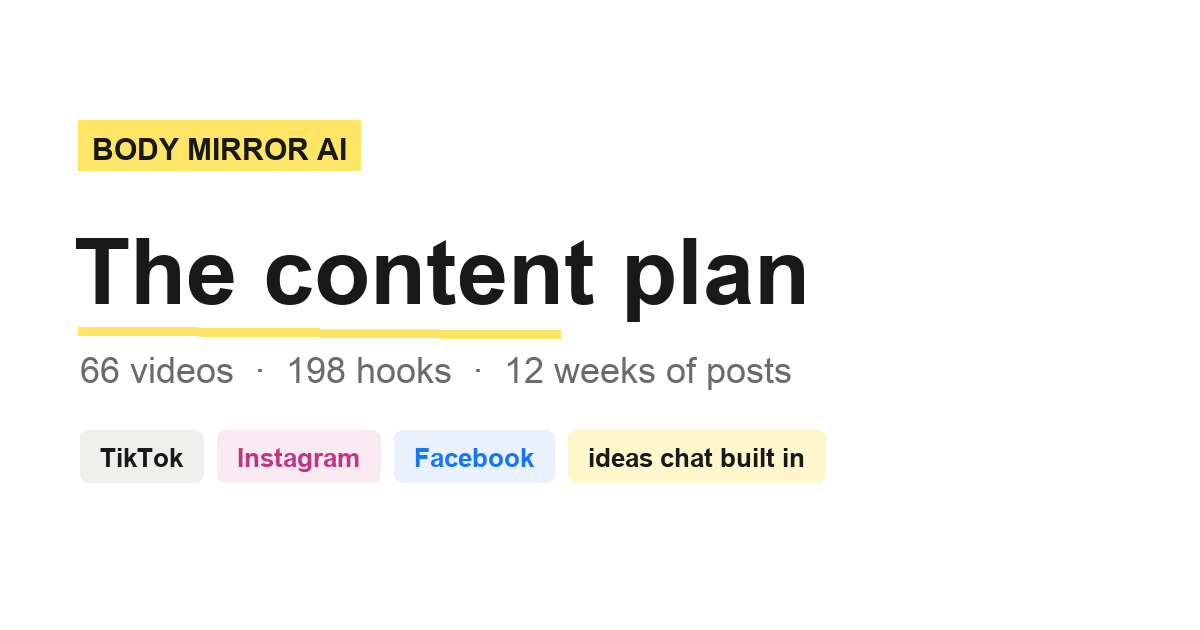
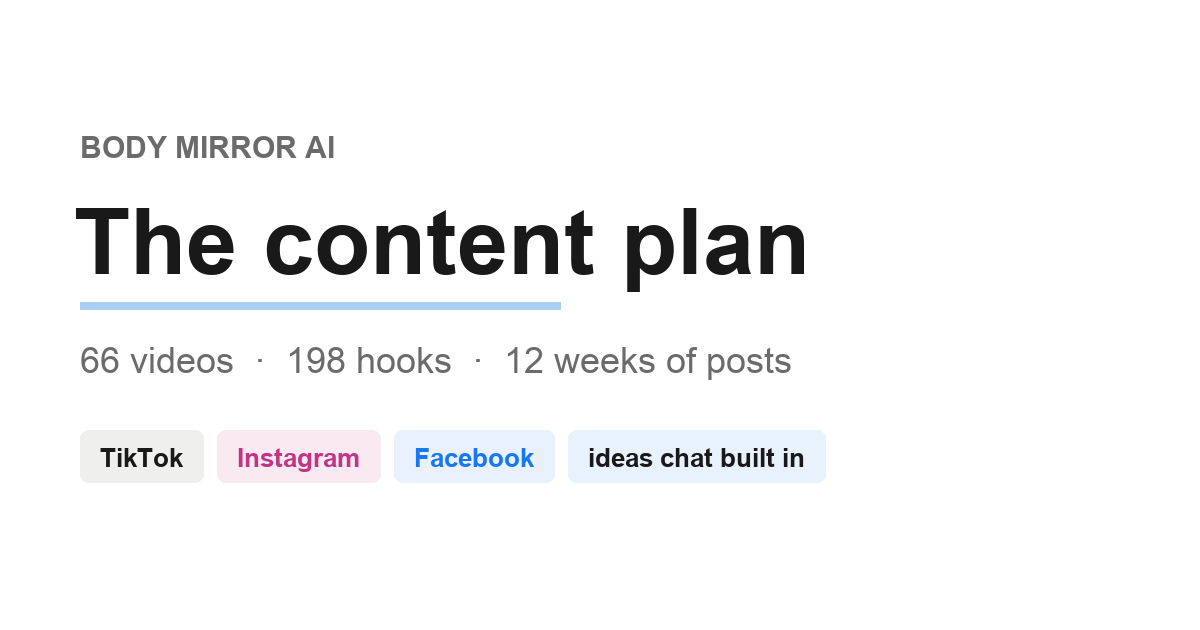
v4.1: swap yellow for sparing soft blue accent

diff --git a/index.html b/index.html
@@ -18,7 +18,7 @@
 <style>
   :root{
     --bg:#FFFFFF; --surface:#FFFFFF; --soft:#F7F7F5; --ink:#191919; --muted:#6B6B6B; --line:#E3E3E0;
-    --hl:#FFE566; --hl-soft:#FFF7CC;
+    --hl:#A9CFF5; --hl-soft:#E8F2FC;
     --tt:#191919; --tt-bg:#EFEFED; --ig:#C13584; --ig-bg:#F9EAF2; --fb:#1877F2; --fb-bg:#E9F1FD;
     --good:#25823F; --good-bg:#EAF4EC; --warn:#9A6A00; --warn-bg:#FBF2D7;
     --r:8px;
@@ -27,20 +27,20 @@
   @media (prefers-color-scheme: dark){
     :root{
       --bg:#151515; --surface:#1C1C1C; --soft:#202020; --ink:#EBEBEB; --muted:#9C9C9C; --line:#303030;
-      --hl:#F0D34C; --hl-soft:#3A3413;
+      --hl:#5E97D0; --hl-soft:#1E2F40;
       --tt:#EBEBEB; --tt-bg:#2A2A2A; --ig:#EE79B6; --ig-bg:#3A2230; --fb:#63A4F8; --fb-bg:#1E2E47;
       --good:#5FBF7A; --good-bg:#1B2E20; --warn:#DDB84E; --warn-bg:#332B10;
     }
   }
   :root[data-theme="light"]{
     --bg:#FFFFFF; --surface:#FFFFFF; --soft:#F7F7F5; --ink:#191919; --muted:#6B6B6B; --line:#E3E3E0;
-    --hl:#FFE566; --hl-soft:#FFF7CC;
+    --hl:#A9CFF5; --hl-soft:#E8F2FC;
     --tt:#191919; --tt-bg:#EFEFED; --ig:#C13584; --ig-bg:#F9EAF2; --fb:#1877F2; --fb-bg:#E9F1FD;
     --good:#25823F; --good-bg:#EAF4EC; --warn:#9A6A00; --warn-bg:#FBF2D7;
   }
   :root[data-theme="dark"]{
     --bg:#151515; --surface:#1C1C1C; --soft:#202020; --ink:#EBEBEB; --muted:#9C9C9C; --line:#303030;
-    --hl:#F0D34C; --hl-soft:#3A3413;
+    --hl:#5E97D0; --hl-soft:#1E2F40;
     --tt:#EBEBEB; --tt-bg:#2A2A2A; --ig:#EE79B6; --ig-bg:#3A2230; --fb:#63A4F8; --fb-bg:#1E2E47;
     --good:#5FBF7A; --good-bg:#1B2E20; --warn:#DDB84E; --warn-bg:#332B10;
   }
@@ -51,7 +51,7 @@
   h1,h2,h3{margin:0;text-wrap:balance}
 
   /* ------- header ------- */
-  .eyebrow{display:inline-block;font-size:12.5px;letter-spacing:.08em;text-transform:uppercase;font-weight:700;background:var(--hl);color:#191919;padding:3px 8px;margin-bottom:10px}
+  .eyebrow{display:inline-block;font-size:12.5px;letter-spacing:.08em;text-transform:uppercase;font-weight:700;color:var(--muted);margin-bottom:8px}
   h1{font-size:clamp(26px,6vw,34px);line-height:1.15;font-weight:800;letter-spacing:-.01em}
   .sub{color:var(--muted);margin:10px 0 0;max-width:58ch}
   .stats{display:flex;gap:14px;flex-wrap:wrap;margin:14px 0 0;font-size:13.5px;color:var(--muted)}
@@ -66,7 +66,7 @@
 
   .f5row{display:flex;flex-wrap:wrap;gap:7px;margin-top:10px}
   .f5btn{display:flex;align-items:center;gap:8px;border:1px solid var(--line);background:var(--surface);color:var(--ink);border-radius:6px;padding:6px 12px 6px 6px;font-size:13.5px;font-weight:600;cursor:pointer;font-family:var(--body)}
-  .f5btn i{font-style:normal;width:21px;height:21px;border-radius:4px;background:var(--hl);color:#191919;display:grid;place-items:center;font-size:12px;font-weight:800;flex:none}
+  .f5btn i{font-style:normal;width:21px;height:21px;border-radius:4px;background:var(--hl-soft);color:var(--ink);display:grid;place-items:center;font-size:12px;font-weight:800;flex:none}
   .f5btn:hover{border-color:var(--ink)}
 
   .pillars{display:grid;grid-template-columns:repeat(auto-fit,minmax(220px,1fr));gap:8px;margin:18px 0 0}
@@ -98,7 +98,7 @@
   .count-note{font-size:12.5px;color:var(--muted)}
   .count-note b{color:var(--ink);font-variant-numeric:tabular-nums}
   .dice{border:1px solid var(--ink);background:var(--surface);color:var(--ink);border-radius:6px;padding:6px 13px;font-size:13px;font-weight:700;cursor:pointer;font-family:var(--body);margin-left:auto}
-  .dice:hover{background:var(--hl);border-color:var(--hl);color:#191919}
+  .dice:hover{background:var(--ink);color:var(--bg)}
 
   /* ------- plan ------- */
   .month{margin-top:30px}
@@ -119,7 +119,7 @@
   .ptag.tt{background:var(--tt-bg);color:var(--tt)}
   .ptag.ig{background:var(--ig-bg);color:var(--ig)}
   .ptag.fb{background:var(--fb-bg);color:var(--fb)}
-  .ptag.all{background:var(--hl-soft);color:var(--ink)}
+  .ptag.all{background:var(--soft);color:var(--ink);border:1px solid var(--line)}
   .atag{font-size:11.5px;color:var(--muted);border:1px solid var(--line);border-radius:4px;padding:2px 7px}
   .etag{font-size:11px;font-weight:700;border-radius:4px;padding:2.5px 7px;margin-left:auto;white-space:nowrap}
   .etag.q{background:var(--good-bg);color:var(--good)}
@@ -146,7 +146,7 @@
   .copy-idea:hover{color:var(--ink);border-color:var(--ink)}
   .copy-idea.done{color:var(--good);border-color:var(--good)}
   [contenteditable]{border-radius:4px;padding:1px 3px;margin:-1px -3px}
-  [contenteditable]:hover{background:var(--hl-soft)}
+  [contenteditable]:hover{background:var(--soft)}
   [contenteditable]:focus{outline:2px solid var(--hl);background:var(--surface)}
 
   .empty{color:var(--muted);text-align:center;padding:40px 0;font-size:14.5px}
@@ -168,7 +168,7 @@
   .msg{max-width:88%;padding:9px 12px;border-radius:10px;font-size:14px;white-space:pre-wrap}
   .msg.bot{background:var(--soft);border:1px solid var(--line);border-bottom-left-radius:4px;align-self:flex-start}
   .msg.user{background:var(--ink);color:var(--bg);border-bottom-right-radius:4px;align-self:flex-end}
-  .idea-card{border:1px solid var(--line);border-left:3px solid var(--hl);border-radius:8px;padding:10px 12px;align-self:stretch;max-width:100%;background:var(--surface)}
+  .idea-card{border:1px solid var(--line);border-left:3px solid var(--line);border-radius:8px;padding:10px 12px;align-self:stretch;max-width:100%;background:var(--surface)}
   .idea-card .ic-top{display:flex;gap:5px;flex-wrap:wrap;margin-bottom:5px}
   .idea-card b{font-size:14px}
   .idea-card p{margin:4px 0 0;font-size:13px;color:var(--muted)}